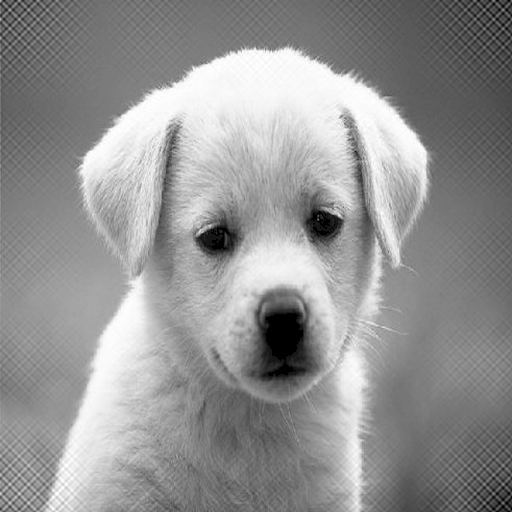
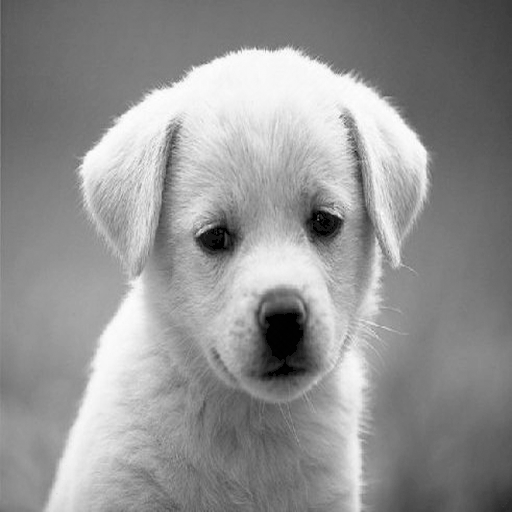
task2 completed!

diff --git a/task2/fourier.py b/task2/fourier.py
@@ -112,14 +112,77 @@ def denoise1(img):
     Use adequate technique(s) to denoise the image.
     Hint: Use fourier transform
     '''
-    return img
+
+    height, width = img.shape
+    fft = np.fft.fft2(img)
+    fftshifted = fftshift(fft)
+    r1 = 20
+    #중앙에 검은색 동그라미
+    #특정 구역을 1 시그마 값으로 outlier를 찾고 옆에 값으로 치환
+    test_2 = [fftshifted.mean() - 1 * fftshifted.std(), fftshifted.mean() + 1 * fftshifted.std()]
+    for i in range(height):
+        for j in range(width):
+            # if ((i - (height)/2)**2 + (j - (width)/2)**2 >= r1**2 and (i - (height)/2)**2 + (j - (width)/2)**2 <= r2**2):
+            if (i - (height)/2)**2 + (j - (width)/2)**2 >= r1**2:
+                if(np.abs(i - (height//2)) >= 5):
+                    if(np.abs(j - (width//2)) >= 5):
+                        if(fftshifted[i, j] <= test_2[0]):
+                            fftshifted[i, j] = fftshifted[i+10, j+10]
+                        elif(fftshifted[i, j]  >= test_2[1]):
+                            fftshifted[i, j] = fftshifted[i+10, j+10]
+    
+    fftshifted = np.fft.ifftshift(fftshifted)
+    ifft = np.fft.ifft2(fftshifted)
+    
+    temp = np.zeros((height, width))
+    for i in range(height):
+        for j in range(width):
+            temp[i, j] = ifft[i, j].real
+    
+    max, min = np.max(temp) , np.min(temp)
+    return_img = np.zeros((height, width), dtype = "uint8")
+    
+    for i in range(height):
+        for j in range(width):
+            return_img[i, j] = 255*(temp[i, j] - min)/(max - min)
+    return return_img
 
 def denoise2(img):
     '''
     Use adequate technique(s) to denoise the image.
     Hint: Use fourier transform
     '''
-    return img
+    height, width = img.shape
+    fft = np.fft.fft2(img)
+    fftshifted = fftshift(fft)
+    r1 = 27
+    r2 = 28
+    test = np.mean(fftshifted[height//2-14:height//2+14,width//2-14:width//2+14])
+    print(height//2-1)
+    #중앙에 검은색 동그라미
+    for i in range(height):
+        for j in range(width):
+            if ((i - (height)/2)**2 + (j - (width)/2)**2 >= r1**2 and (i - (height)/2)**2 + (j - (width)/2)**2 <= r2**2):
+                if(i<=height//2-2 or i>=height//2+2):
+                    if(j<=height//2-1 or j>=height//2+2):
+                        fftshifted[i, j] = test
+    
+    fftshifted = np.fft.ifftshift(fftshifted)
+    ifft = np.fft.ifft2(fftshifted)
+    
+    temp = np.zeros((height, width))
+    for i in range(height):
+        for j in range(width):
+            temp[i, j] = ifft[i, j].real
+    
+    max, min = np.max(temp) , np.min(temp)
+    return_img = np.zeros((height, width), dtype = "uint8")
+    
+    for i in range(height):
+        for j in range(width):
+            return_img[i, j] = 255*(temp[i, j] - min)/(max - min)
+    return return_img
+
 
 #################
 
